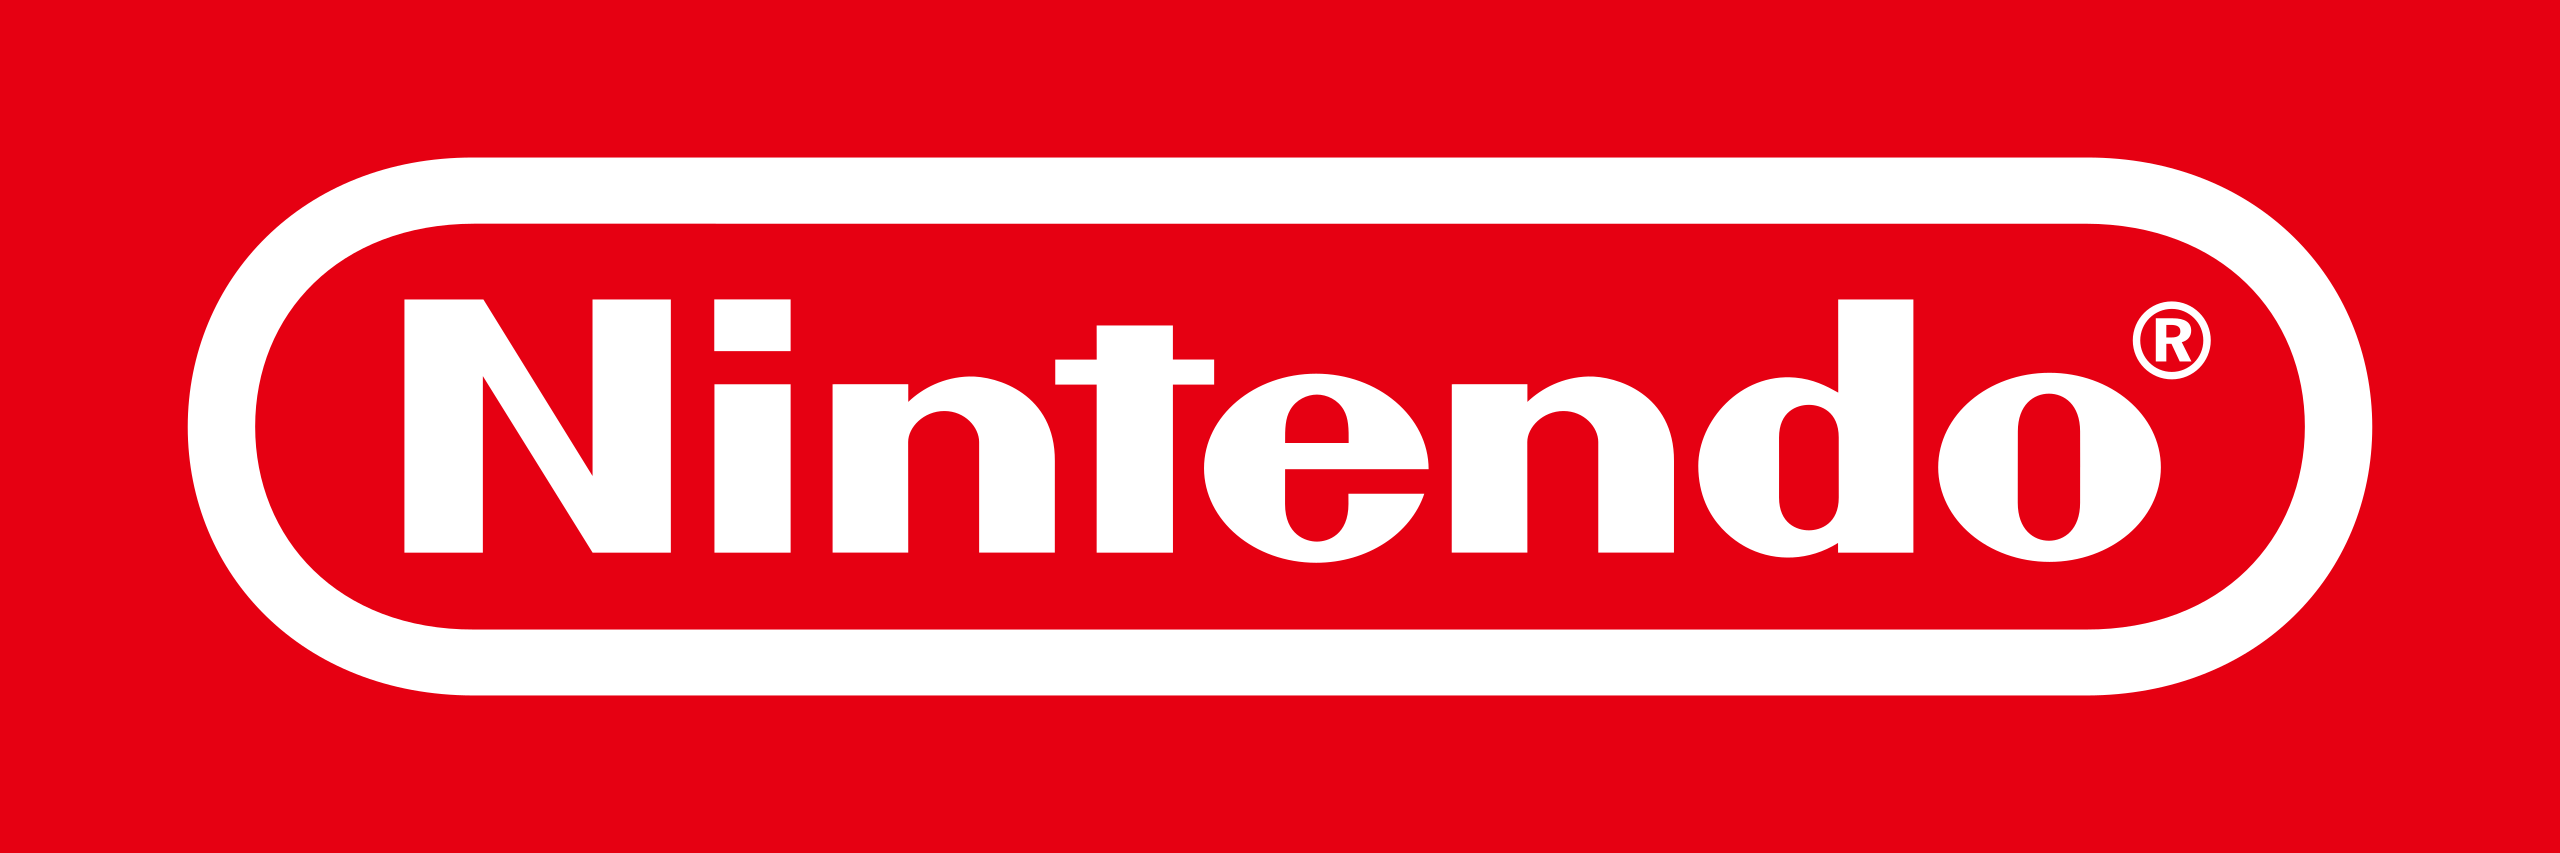
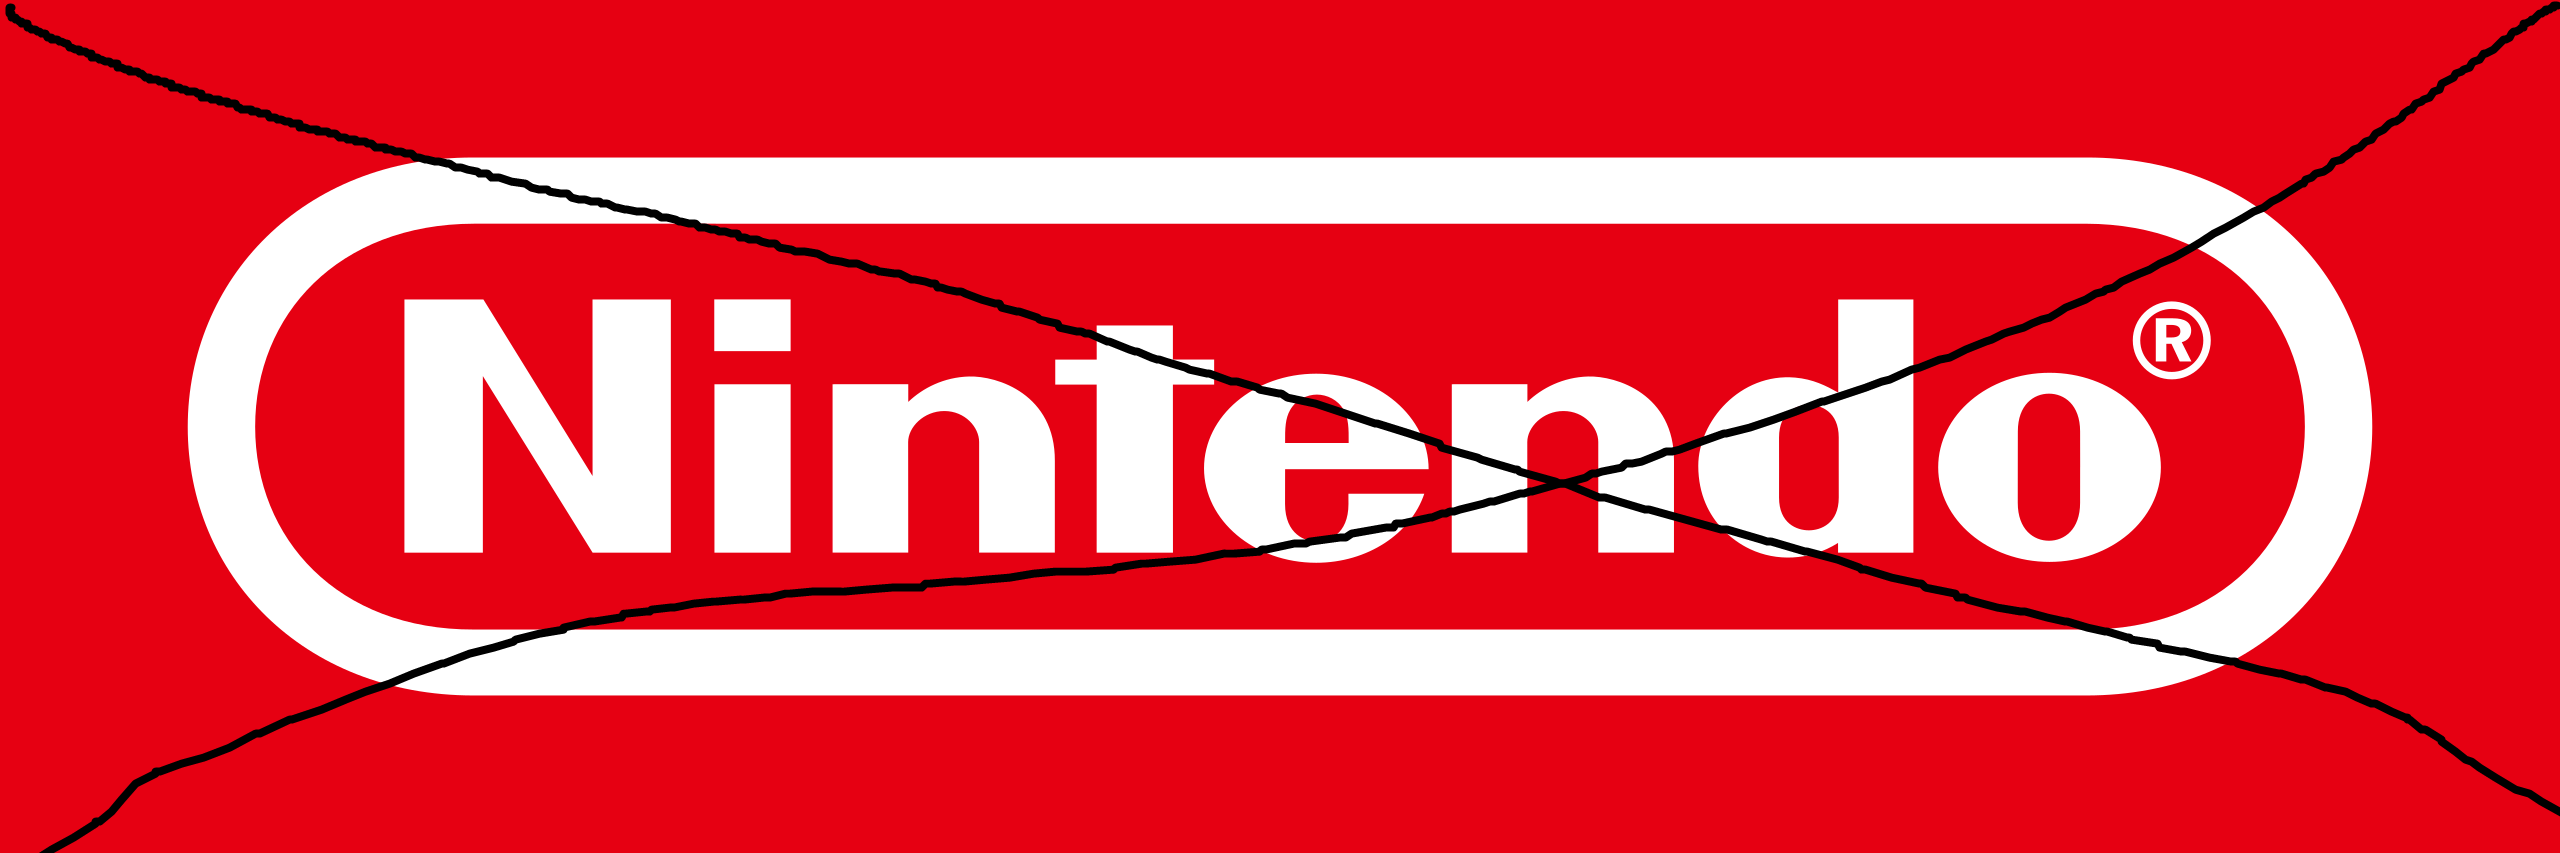
added uoft education experience and some picture updates

diff --git a/public/index.html b/public/index.html
@@ -74,18 +74,18 @@ figcaption {
     <div>
     <h1><center> Welcome to my website. Let me begin by telling you a little about myself.</h1>
     <figure style="float: left;">
-    <img src = "andyatwork.jpg" width="210" height="300">
+    <img src = "andyatwork2.jpg" width="210" height="300">
     <figcaption> Here's me typing out this website. </figcaption>
     </figure>
     <ul>
-      <li><h3> I am a Grade 12 Canadian high school honours student attending schooling at Maxwell Heights Secondary School.</li>
+      <li><h3> I am a First Year University student attending post-secondary schooling at UTSC. </li>
       <li><h3> I was born, raised, and have lived in Oshawa, Ontario for my entire 17 years of life. </li>
       <li><h3> I love video games, and I have gained an interest to help develop them as one of my possible career paths. </li>
     </ul>
 
     <br>
 
-    <center><h2 style="border: none;"><b>My Main Goal: To Become a Computer Scientist</b></h2></center>
+    <center><h2 style="border: none;"><b>My Main Goal: To Become a Game Developer</b></h2></center>
    </div>
     
     <h1 style="clear: left;"><center>My Accomplishments</center></h1>
@@ -93,9 +93,8 @@ figcaption {
     <a name="andysAcademics"></a>
     <h1><center>Here's some of the stuff I've done over the years. </h1>
     <h2 style = "text-align: left; margin-left: 25px;"> 1) General Academics</h2>
-    <h4 style="margin-bottom: 25px; margin-left: 25px;"><p>-Last year in Grade 11, I finished with a 96 grade average, and
-      in Grade 12 I am going to try and remain consistent with my grades, and so far I 
-      have been able to do so, with my 2 current completed courses averaging at a 98.
+    <h4 style="margin-bottom: 25px; margin-left: 25px;"><p>-In 2021 as a Grade 11, I finished with a 96 grade average with Principal's 
+      Honours.
     </p></h2>
 
     <figure style="float: left; margin-left: 10%;">
@@ -105,7 +104,17 @@ figcaption {
     <figure style="float: right; margin-right: 30%;">
     <img src="andycourseinfo.PNG" width="500" height="350">
     <figcaption>My Current Grade 11-12 grades</figcaption>
-    </figure>
+      
+
+    <h4 style="margin-bottom: 25px; margin-left: 25px;"><p>-I graduated high school with a 97 average, the highest grade in Grade 12
+      Physics and enrolled into the University of Toronto Scarborough to study in the Co-op Specialist Computer Science program. 
+    </p></h2>
+
+    <figure style="float: left; margin-left: 10%;">
+      <img src="accepted.PNG" width="700" height="350">
+      <figcaption>Part of my UTSC acceptance letter.</figcaption>
+      </figure>
+
     <br>
     <a name="andysTechAccomplishments"></a>
     <h2 style="text-align: left; margin-left: 25px; clear: both;"> 2) Computer Science and Robotics Achievements</h2>
@@ -156,12 +165,14 @@ figcaption {
     <h1 style="margin-top: 50px;"><center>What I want to do in the future</center></h1>
     <a name="andysFuturePlans"></a>
     <img src="nintendo.png" align=right width="400" height="100" style="margin: 10px;"> 
+    <img src="riot.png" align=right width="400" height="100" style="margin: 10px;"> 
     <h4 style="margin-left: 25px;"><p> I mentioned before that I have gained an interest in developing video games after playing them all my life. Well, that's exactly
       what I want to do. Create, design, and play video games. Since I really like playing them, I figured I might as well make it a career path for me.
       I understand the general path for such a career probably goes something like go to a post-secondary institution to study more computer science or 
       software engineering, obtain some experience through creating indie games, being a gametester and slowly building a portfolio, and then try to apply to some game company, 
       or start my own. In my case, I am much more interested in working under the game companies whose games I played as a kid, like Nintendo. My favorite game
-      is made by Nintendo, "Kirby's Return to Dreamland." That is basically my future plan, as of now. 
+      is made by Nintendo, "Kirby's Return to Dreamland." However, I realized after careful consideration that Nintendo is not a great company for such a pursuit, so 
+      I have switched gears towards Riot Games instead, who have created popular modern games such as League of Legends. 
     </p></h4>
 
     <br>
